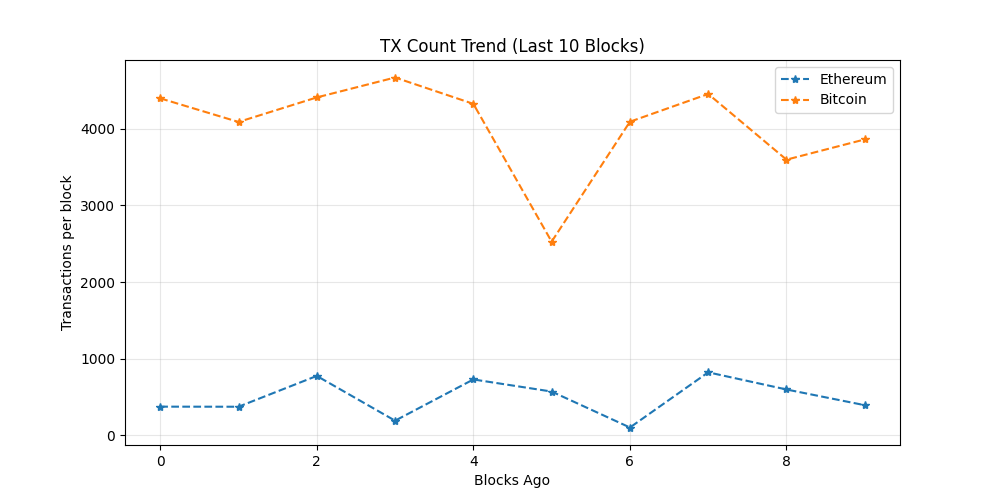
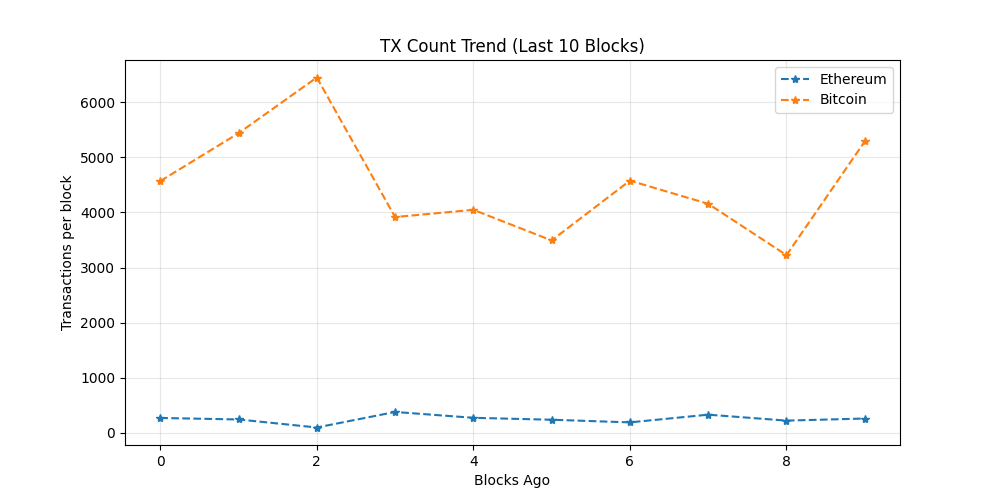
chore: update on-chain dashboard

diff --git a/README.md b/README.md
@@ -19,7 +19,7 @@ The README itself acts as the dashboard and is regenerated automatically on a 6 
 demonstrating a production-style, infrastructure-focused observability workflow rather
 than a traditional UI-driven approach.
 
-_Last updated: 2026-08-04 09:06 UTC_
+_Last updated: 2026-08-04 14:37 UTC_
 
 ## API Usage (GetBlock.io)
 - Calls used: **24**
@@ -27,8 +27,8 @@ _Last updated: 2026-08-04 09:06 UTC_
 ## Network Metrics
 | Chain | Block Height | TX Count | TPS (10 blk avg) | Block Util | Avg Fee |
 |------|-------------|----------|------------------|------------|---------|
-| Ethereum | 25680538 | 393 | 32.75 | 55.98% | 0.1 Gwei |
-| Bitcoin | 960988 | 3861 | 21.1 | 99.89% | N/A |
+| Ethereum | 25682195 | 258 | 21.5 | 50.27% | 0.2 Gwei |
+| Bitcoin | 961025 | 5291 | 11.21 | 99.8% | N/A |
 
 ## Visuals
 ### Transactions Trend
@@ -43,11 +43,11 @@ _Last updated: 2026-08-04 09:06 UTC_
 ## Whale Alerts (latest block)
 - Transaction hashes are truncated for readability.
 - Full hashes are available in `dashboards/metrics.json`
-- Bitcoin | 170.95 BTC | `b7fe4ba1d6bb…`
-- Bitcoin | 116.33 BTC | `ffb48d0284fb…`
-- Bitcoin | 117.97 BTC | `921222eab43f…`
-- Bitcoin | 1140.79 BTC | `0f7ac34eea7e…`
-- Bitcoin | 129.94 BTC | `129f5492b177…`
+- Bitcoin | 144.44 BTC | `b22882d1df83…`
+- Bitcoin | 144.8 BTC | `a14d14b623bd…`
+- Bitcoin | 588.37 BTC | `87a5ec8536d6…`
+- Bitcoin | 341.48 BTC | `0518c87cde53…`
+- Bitcoin | 167.2 BTC | `6eede3cdce32…`
 
 ## Run locally
 
